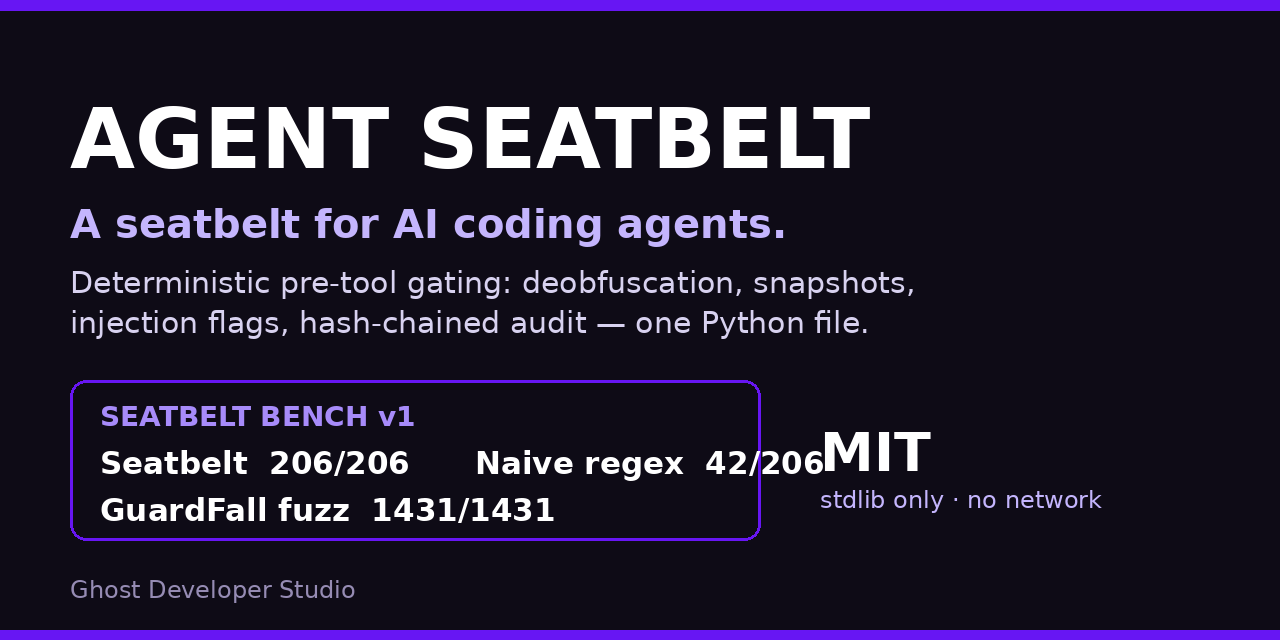
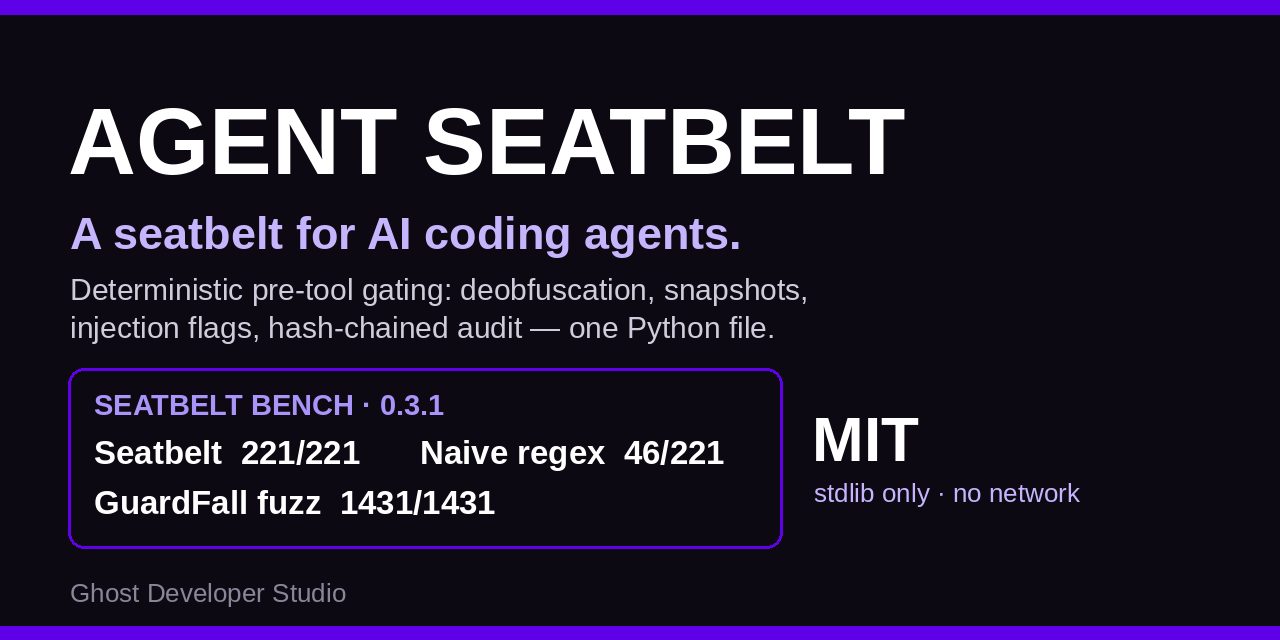
site+docs: 0.3.1 numbers on Pages site and social preview; regenerate SHA256SUMS

diff --git a/site/index.html b/site/index.html
@@ -4,7 +4,7 @@
 <meta charset="utf-8">
 <meta name="viewport" content="width=device-width, initial-scale=1">
 <title>Agent Seatbelt — A seatbelt for AI coding agents</title>
-<meta name="description" content="Agent Seatbelt reads every tool call your AI coding agent makes — before it runs — and denies or escalates the ones that end careers. Deterministic, stdlib-only, 206/206 on the open Seatbelt Bench.">
+<meta name="description" content="Agent Seatbelt reads every tool call your AI coding agent makes — before it runs — and denies or escalates the ones that end careers. Deterministic, stdlib-only, 221/221 on the open Seatbelt Bench.">
 <style>
   :root {
     --violet: #6716f3;
@@ -188,7 +188,7 @@
     </p>
     <div class="install">
       <code>$ pip install ghost-seatbelt</code><span class="soon">Live on PyPI</span>
-      <p>v0.2.0 is live on <a href="https://pypi.org/project/ghost-seatbelt/">PyPI</a>
+      <p>v0.3.1 is live on <a href="https://pypi.org/project/ghost-seatbelt/">PyPI</a>
       and <a href="https://github.com/littlestjames82-sys/agent-seatbelt">GitHub</a>.
       Also a Claude Code plugin:
       <code>/plugin marketplace add littlestjames82-sys/agent-seatbelt</code>.
@@ -260,12 +260,12 @@
 
   <section>
     <h2>Verified, <span class="accent">not vibes</span></h2>
-    <p class="lede">Measured on the v0.2.0 release, October 2026 — the same
+    <p class="lede">Measured on the v0.3.1 release, October 2026 (bench re-run October 14, 2026) — the same
     bench and suites that ship in the repo.</p>
     <div class="stats">
-      <div class="stat"><div class="num">206/206</div><div class="lbl">Seatbelt Bench cases passing</div></div>
+      <div class="stat"><div class="num">221/221</div><div class="lbl">Seatbelt Bench cases passing</div></div>
       <div class="stat"><div class="num">0</div><div class="lbl">false positives on the bench</div></div>
-      <div class="stat"><div class="num">275/275</div><div class="lbl">pytest tests passing (v0.2.0)</div></div>
+      <div class="stat"><div class="num">363/363</div><div class="lbl">pytest tests passing (v0.3.1)</div></div>
       <div class="stat"><div class="num">1 file</div><div class="lbl">stdlib only · zero dependencies</div></div>
     </div>
     <pre class="trail"><span class="k">call</span>     bash · rm -rf ~/projects/client-site
